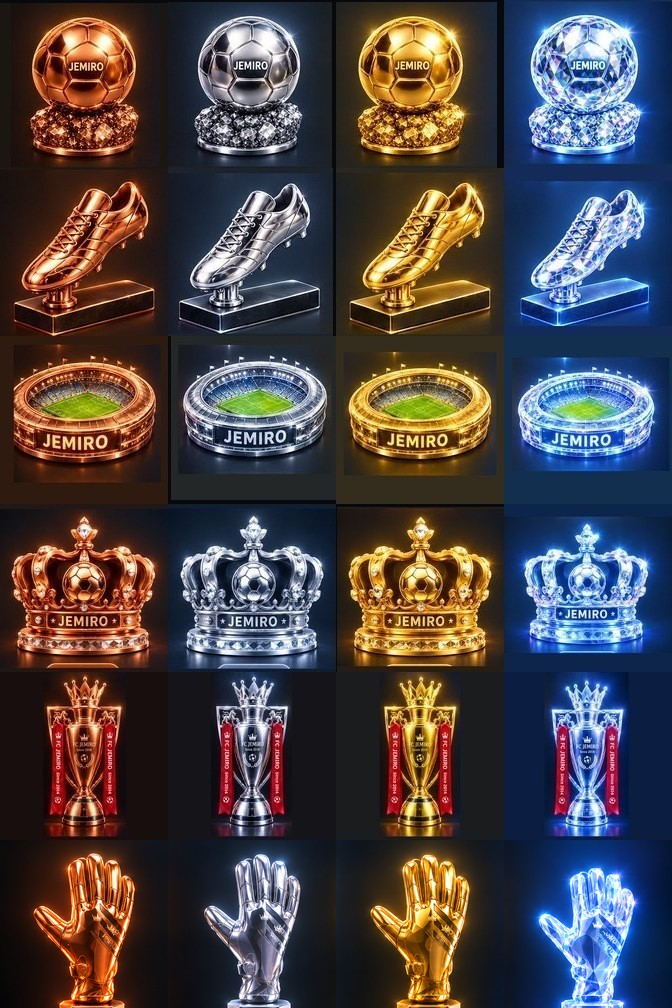
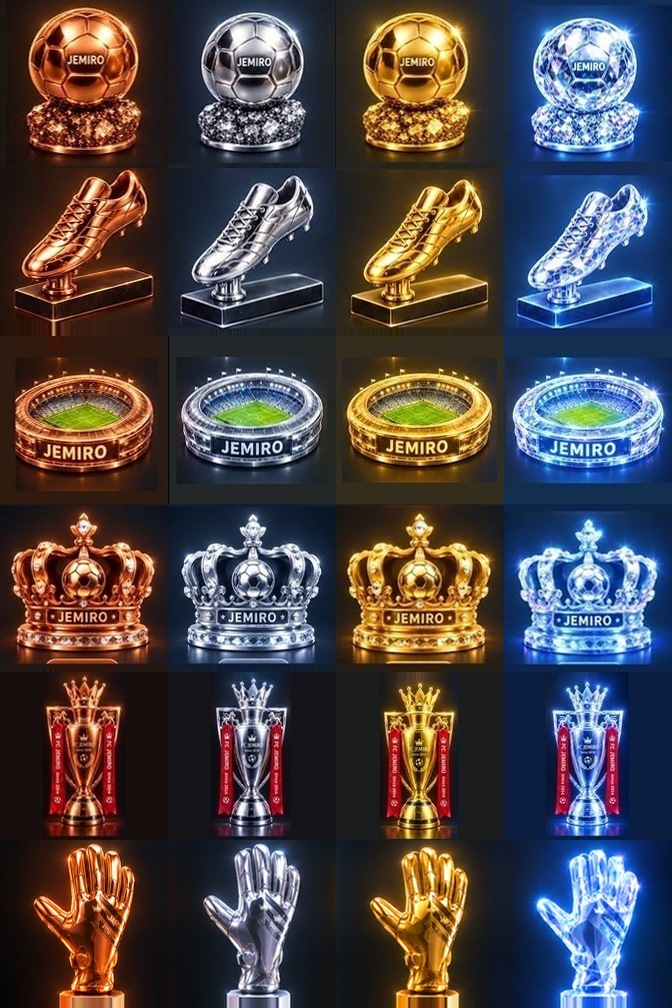
Add files via upload

diff --git a/index.html b/index.html
@@ -888,7 +888,7 @@ var SUPA_KEY = 'eyJhbGciOiJIUzI1NiIsInR5cCI6IkpXVCJ9.eyJpc3MiOiJzdXBhYmFzZSIsInJ
 var APP_NAME = 'FC JEMIRO';
 var APP_SUB = 'FOOTBALL CLUB';
 /* 현재 앱 버전 (version.json과 비교해 최신 아니면 자동 업데이트) */
-var APP_VERSION = '11.0';
+var APP_VERSION = '11.1';
 /* 동축_아이콘: 로그인/팀탭 대표 이미지 (256x256 남색 PNG, 여백 없음) */
 var APP_LOGO = 'logo.png';
 /* 동축_배경: 헤더 배경 이미지 (1000x545 JPEG). 비우면 다크 그라디언트로 fallback */
@@ -5438,7 +5438,7 @@ function renderLogView_(){
 /* ================= 뱃지 아이콘 (트로피 이미지 스프라이트) =================
  * badges.jpg = 4열(동·은·금·다이아) × 4행(골든볼·골든부츠·운동장·왕관)
  * 화면은 CSS background-position, 카드는 canvas drawImage로 같은 이미지를 사용 */
-var BADGE_SRC='badges.jpg?v=6', BADGE_COLS=4, BADGE_ROWS=6;
+var BADGE_SRC='badges.jpg?v=7', BADGE_COLS=4, BADGE_ROWS=6;
 var HOF_TROPHY_SRC='trophy.png?v=1', HOF_TROPHY=null, _hofTrP=null;
 function hofTrophyReady_(){
   if(HOF_TROPHY) return Promise.resolve(HOF_TROPHY);
